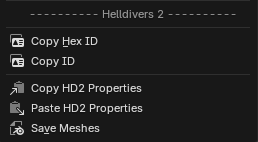
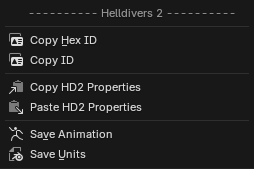
Weapon Replacement Section

Changed region(s): [[0.0276, 0.1972, 0.5787, 0.6761], [0.0276, 0.7042, 0.5512, 0.9577], [0.1102, 0.0282, 0.937, 0.1408]]

diff --git a/docs/weapon modding/weapon-replacement.md b/docs/weapon modding/weapon-replacement.md
@@ -1,0 +1,263 @@
+---
+prev: true
+next: true
+description: Weapon Replacement.
+---
+
+# Weapon Replacement
+
+## Alignment
+
+Import the weapon you want to replace and the weapon you wish to replace it with. This example will be replacing the AR-61 Tenderizer with a EFT AUG A3.
+
+![Import Object](../public/images/weapon-modding/import-object.png)
+
+Align the grip of your weapon to the base game.
+
+![Align](../public/images/weapon-modding/align.png)
+
+At this point, do a test fitting to make sure that in-game the gun feels the right size. Make a duplicate of your model before doing this
+
+Select all the vertices of the base game weapon and delete them.
+
+![Test1](../public/images/weapon-modding/test1.png)
+
+On your model, go to weight paint mode and assign everything to vertex group `boss`.
+
+![Test2](../public/images/weapon-modding/test2.png)
+
+![Test3](../public/images/weapon-modding/test3.png)
+
+Remove all materials attached to your model.
+
+![Test4](../public/images/weapon-modding/test4.png)
+
+Join your model mesh to the base game mesh.
+
+![Test5](../public/images/weapon-modding/test5.png)
+
+Right-click on your mesh and click on `save units`. Since we are doing a test fitting, you only need to have the `unit` saved to the patch and nothing else. If other things are saved, like `materials` or `textures`, you can just remove them from the patch using the `x`.
+
+::: info
+At this point you should have already loaded in the base archive using the `star` icon as well as have hit the `new patch` button.
+:::
+
+![Test6](../public/images/weapon-modding/test6.png)
+
+![Test7](../public/images/weapon-modding/test7.png)
+
+Once the `unit` has been saved to the patch, hit `write patch` and test in-game. You want to ensure that the weapon is being properly held by the right hand as well as making sure the stock of the weapon does not clip through the player model when shooting.
+
+![Test8](../public/images/weapon-modding/test8.png)
+
+If the fitting feels good, move onto the weighting section
+
+## Weight Paint
+
+Each gun will have different vertex groups that control different parts of the gun, like the bolt and charging handle. You can view all of these in the weapon's vertex groups. You will want to be in weight paint mode in order to view the groups properly.
+
+::: info
+If you are replacing a static mesh, you can skip this step as static meshes do not have any animations associated with it.
+:::
+
+![Weight1](../public/images/weapon-modding/weight1.png)
+
+There will typically be two different types of animation used for weapons, vector-based and rotational based.
+
+### Vector-Based Animation
+
+These are animations that will only move in a single direction and reciprocate. This will include things like the bolt moving back and forth whenever the weapon fires, or the charging handle being pulled back then springing back forward.
+
+These animations are global and do not require bone/animation edits in order for your modded weapon to properly work.
+
+![Vector](../public/images/weapon-modding/vector-based.gif)
+
+### Rotational-Based Animation
+
+These are animations that will pivot in place or spin in some fashion. This is usually used for functions like the fire selector switch or mag paddle releases.
+
+These animations are <u>not</u> global and will require bone/animation edits in order to for your modded weapon to properly work if your modded weapon does not have the mesh in the same spot as the original gun you are replacing.
+
+![Rotation](../public/images/weapon-modding/rotation-based.gif)
+
+If you wish to understand how to edit animations so you can fix rotational-based animations for your modded weapon, please visit [this](https://docs.google.com/document/d/1JnW2PGM0HCQGIPVEEqisthMeLBC4nfuh6_5DSrN7zT4/edit?usp=sharing) link.
+
+Based on the criteria above, choose how much of the gun you will want to have proper animations.
+
+Start assigning parts of your modded weapon to have the corresponding vertex groups.
+
+![Weight2](../public/images/weapon-modding/weight2.png)
+
+ Continue this until you are completely done with assigning weights.
+
+![Weight3](../public/images/weapon-modding/weight3.png)
+
+ ## Materials/Textures
+
+ Start generating SDK materials to replace on your mesh. Please visit [here](../materials/overview) to understand what type of `material` types that are available for you to use. For this example, all the `materials` will be using the Advanced preset.
+
+ Click on this button in the SDK to generate a new `material`.
+
+![Material1](../public/images/weapon-modding/material1.png)
+
+Replace the `material` on your mesh with the newly generated SDK `material`.
+
+![Material2](../public/images/weapon-modding/material2.png)
+
+Input the required `textures` for the `material` preset you are using. In this case, we are replacing the Normal/Roughness, Metallic, and Color/Emissive.
+
+![Material3](../public/images/weapon-modding/material3.gif)
+
+Repeat this for every material you need to replace.
+
+![Material4](../public/images/weapon-modding/material4.png)
+
+## Copy Properties
+
+There are two different ways to copy properties from the base game `unit` you are replacing onto your modded weapon.
+
+### Copy Properties Option
+
+In this method, you will right-click the base game `unit` and then hit `Copy HD2 Properties`.
+
+![Property1](../public/images/weapon-modding/property1.png)
+
+You will then select your modded `mesh`, right-click and then hit `Paste HD2 Properties`. If successful, your modded `mesh` will have the custom properties in the object properties tab.
+
+![Property2](../public/images/weapon-modding/property2.png)
+
+The point of origin will now need to be copied. 
+    Click on the base game `unit`
+    Hit the keys `Shift+S`
+    Select `Cursor to Selected`
+    Click on your modded `mesh`
+    Right-click > Set Origin > Origin to 3D Cursor
+
+![Property3](../public/images/weapon-modding/property3.gif)
+
+Repeat this for every `unit` you are replacing with a modded mesh.
+
+### Copy Properties through Merging
+
+In this method you will copy the properties of the base game `unit` through merging your mesh to the base game `mesh`.
+
+    Select the base game mesh
+    Delete all vertices
+    Remove all materials
+    Select your modded mesh
+    CTRL+Select the base game mesh
+    CTRL+J to join
+
+![Property4](../public/images/weapon-modding/property4.gif)
+
+Whatever option you choose, do this for all the `units` you are replacing.
+
+## Magazine Placement
+
+At this point, select all the meshes you are modding, right-click, and `Save Units`. Once the SDK is done processing, hit `Write Patch` and launch your game.
+
+As you can see here, the magazine is not in the correct spot.
+
+![Mag1](../public/images/weapon-modding/mag1.png)
+
+Back in Blender, select the magazine and go to `Edit Mode`. You must be in `Edit Mode` for this.
+
+![Mag2](../public/images/weapon-modding/mag2.png)
+
+Move the magazine in the direction it needs to go. Once you are done, remove the old magazine `unit` from the patch and then resave the modded magazine to the patch. `Write Patch` and relaunch your game.
+
+![Mag3](../public/images/weapon-modding/mag3.gif)
+
+Repeat until you get the magazine into the correct spot.
+
+![Mag4](../public/images/weapon-modding/mag4.png)
+
+## Bone Editting
+
+In order to get weapon customization to work with your modded weapon, you will need to do some edits to the `unit armature`.
+
+::: info
+If you have not already, import the armature of the unit you are replacing.
+:::
+
+To make things easier, turn on the `names` setting in the bone collection tab with the `armature` selected.
+
+![Bones1](../public/images/weapon-modding/bones1.png)
+
+![Bones2](../public/images/weapon-modding/bones2.png)
+
+These are the main bones you want to worry about:
+
+    attach_muzzle - Where your bullets spawn from and where the muzzle attachments are placed
+    attach_underbarrel - Where the underbarrel attachments are placed
+    attach_optic/sight - Two bones that control where the sight attachments are placed and the armory render screen for said attachment
+    ejector/numbers - Two bones that control where bullet casing spawn from
+    IK_left - The left hand position
+
+To move the bones, have the `armature` selected and then go to `Edit Mode`. From here move the bones to where they need to be on the model.
+
+Reference the base game `mesh` and `armature` positions to see how HD2 does it.
+
+![Bones3](../public/images/weapon-modding/bones3.png)
+
+Before saving the `unit` to the patch, ensure that your `mesh` has an `armature modifier` applied that is referenced to the `armature` you have edited.
+
+![Bones4](../public/images/weapon-modding/bones4.png)
+
+Write your patch and test in-game. Continue editing until you get the weapon attachments in the correct position, then go planet-side and test the IK_Left and Ejector bones.
+
+![Bones5](../public/images/weapon-modding/bones5.png)
+
+![Bones6](../public/images/weapon-modding/bones6.gif)
+
+![Bones7](../public/images/weapon-modding/bones7.png)
+
+### Ejector Tips and Tricks
+
+If you want to change the direction the bullet ejects from, you will need to edit the direction that the bone faces, you can view this by changing the length of the bone to 0.1 or higher. Just make sure to revert it back to it's original setting once you get your bearings.
+
+![Bones8](../public/images/weapon-modding/bones8.png)
+
+For now we are going to point the bone straight up.
+
+![Bones9](../public/images/weapon-modding/bones9.png)
+
+Here's what it looks like in-game
+
+![Bones10](../public/images/weapon-modding/bones10.gif)
+
+### IK_Left Tips and Tricks
+
+IK stands for Inverse Kinematics. It's a system that uses advanced trigonometry to calculate how a body would move based on the position/distance of the hand from the body. It's how the Helldiver body is able to wave the gun around and still look natural.
+
+The IK_left bone is the marker used to determine the position of the left palm and left wrist bones.
+
+You cannot move the IK_left bone any distance away from the player than it is physically possible to the player model to reach.
+
+![Bones11](../public/images/weapon-modding/bones11.png)
+
+![Bones12](../public/images/weapon-modding/bones12.png)
+
+To better visualize how IK_left is visualized in-game, change the bones `Display As` to `B-Bones`
+
+![Bones13](../public/images/weapon-modding/bones13.png)
+
+If you do the length trick like in the `Ejector Tips and Tricks` section, it can help you to visualize how the hand is oriented. Wherever the bone extrudes to, that is the direction of the pinky.
+
+![Bones14](../public/images/weapon-modding/bones14.png)
+
+The two corners here are the positions of the wrist and palm bones.
+
+![Bones15](../public/images/weapon-modding/bones15.png)
+
+The plane rotation determines which way the wrist is rotated. Manipulating this will allow you to change if the hand is holding the weapon vertically or horizonally.
+
+![Bones16](../public/images/weapon-modding/bones16.png)
+
+The bone `Roll` determines global rotation of the hand in-game.
+
+![Bones17](../public/images/weapon-modding/bones17.png)
+
+If the roll was changed by 180 degrees, it would look like this in-game.
+
+![Bones18](../public/images/weapon-modding/bones18.png)

diff --git a/docs/sdk functions/settings.md b/docs/sdk functions/settings.md
@@ -86,6 +86,16 @@ Will remove the gore `meshes` from any imported HD2 armor sets.
 At this current time, any modded armor that changes the mesh in any way will break the base game gibs. It is highly recommended to leave this setting on for newer modders as it will reduce the amount of headaches during the modding process.
 :::
 
+### Parent Armatures
+
+When importing a `mesh` and `armature`, will parent the `mesh` to the `armature`.
+
+![Parent Armature Preview](../public/images/sdk-settings/parent-armature.png)
+
+### Import Armature
+
+Choose whether or not to import the `armature` of a `mesh`.
+
 ## Export Options
 
 ### Force 3 UV Sets
@@ -120,6 +130,22 @@ Takes the saved `mesh` and applies it to all `LODs` of the saved `mesh` ID.
 
 If you are modding an item that requires you to modify each individual `LOD` of the `mesh`, turn this setting off.
 
+### Save Bone Positions
+
+### Save Textures with Material
+
+When saving any `material`, choose whether or not to also save the coresponding `textures` to the patch.
+
+### Generate Randon Texture IDs
+
+If the previous option is also enabled, saved `textures` will have new, randomly generated, unique IDs. Unique IDs are required to prevent `textures` from overriding each other because they have the same ID.
+
+### Save only Custom Textures
+
+When `textures` are saved to patch, choose to only save `textures` that you are inputting and not base game `textures`.
+
+![Custom Textures Preview](../public/images/sdk-settings/custom-textures-edit.png)
+
 ## Other Options
 
 ### Save Non-SDK Materials
@@ -143,6 +169,14 @@ If you plan on having separate `patch files` for `textures` and `meshes` this is
 Automatically makes and `patch file` write to archive `9ba626afa44a3aa3`.
 
 There is no real reason to turn this off so keep enabled.
+
+### Legacy Weight Names
+
+When importing `units` or saving `units`, choose whether or not to use the old system (0_1) or the new standard system (named bones). This is for creators who have made content prior to SDK 3.0 release and have not updated their `units` to use the standard system.
+
+### Merge Armatures
+
+When importing multiple `units`, choose whether or not to merge all the armatures into a single armature. Primarily used for armor sets.
 
 ### Data Location
 

diff --git a/docs/sdk functions/functions.md b/docs/sdk functions/functions.md
@@ -140,7 +140,8 @@ These are functions used when right clicking an object in the SDK or in the Blen
     Copy ID - Copies the Numerical ID of the selected object
     Copy HD2 Properties - Copies all the HD2 properties attached to the selected object
     Paste HD2 Properties - Pasted previously copied HD2 properties to the selected object
-    Save Meshes - Saves selected objects to current patch
+    Save Animation - Saves selected animations from select armatures
+    Save Units - Saves selected objects to current patch
 
 ### Right Click Object in SDK Menu
 
